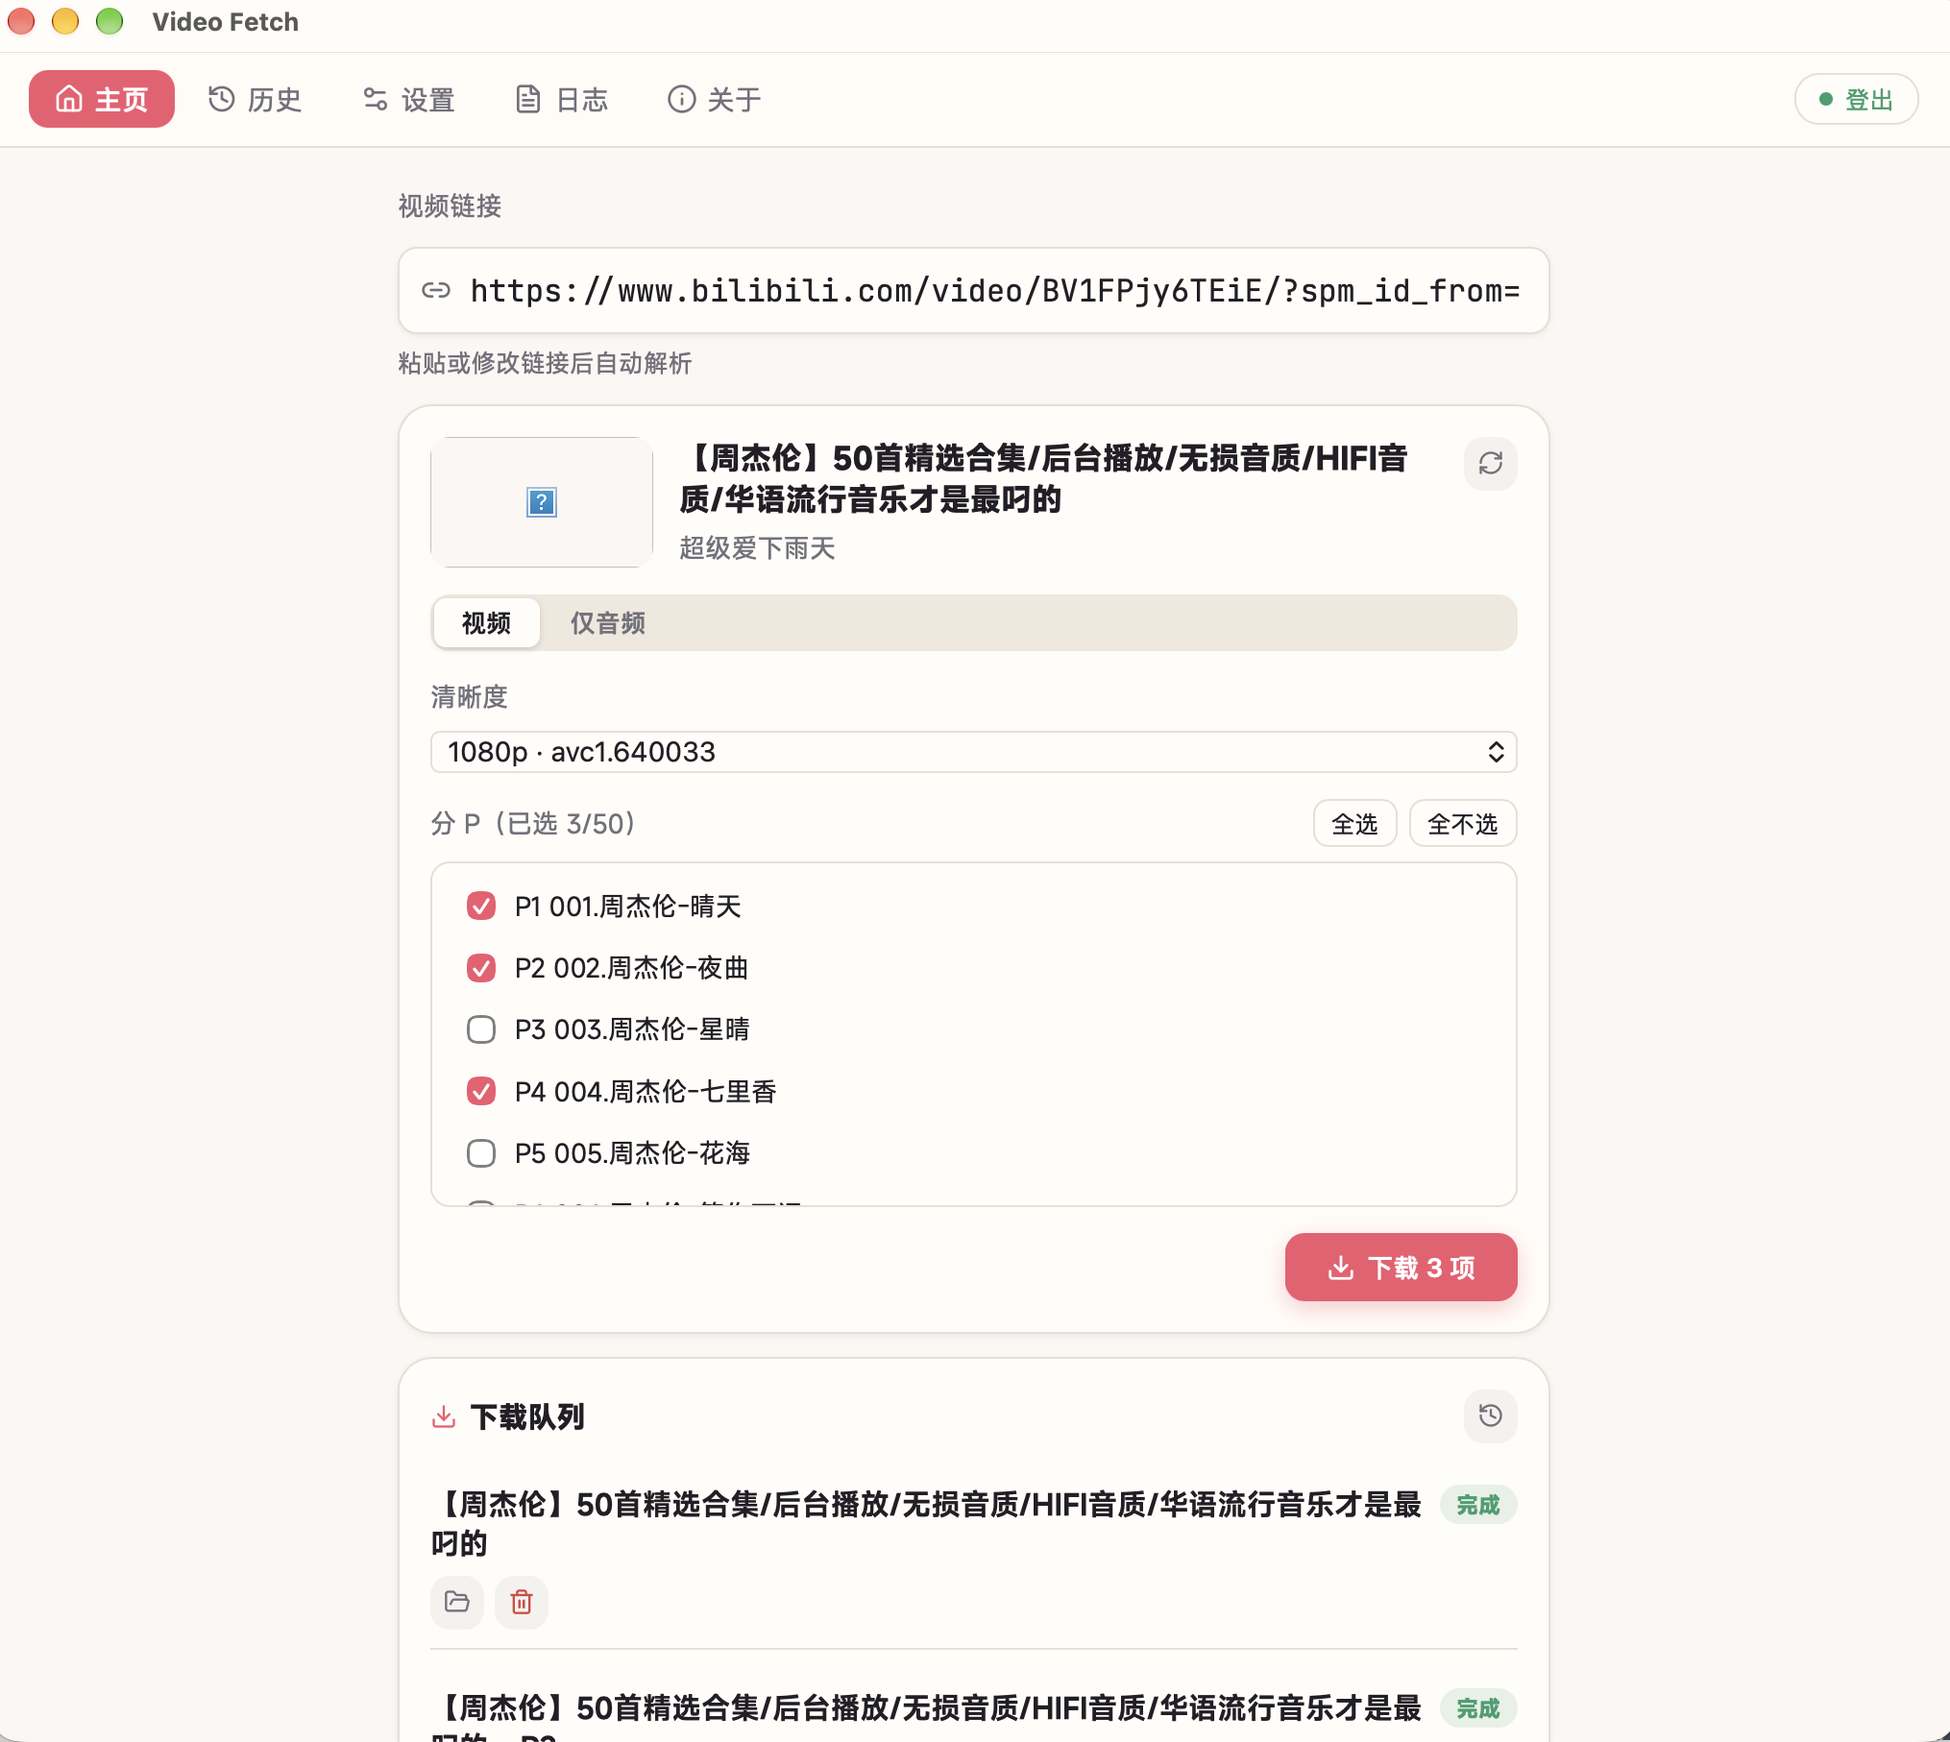
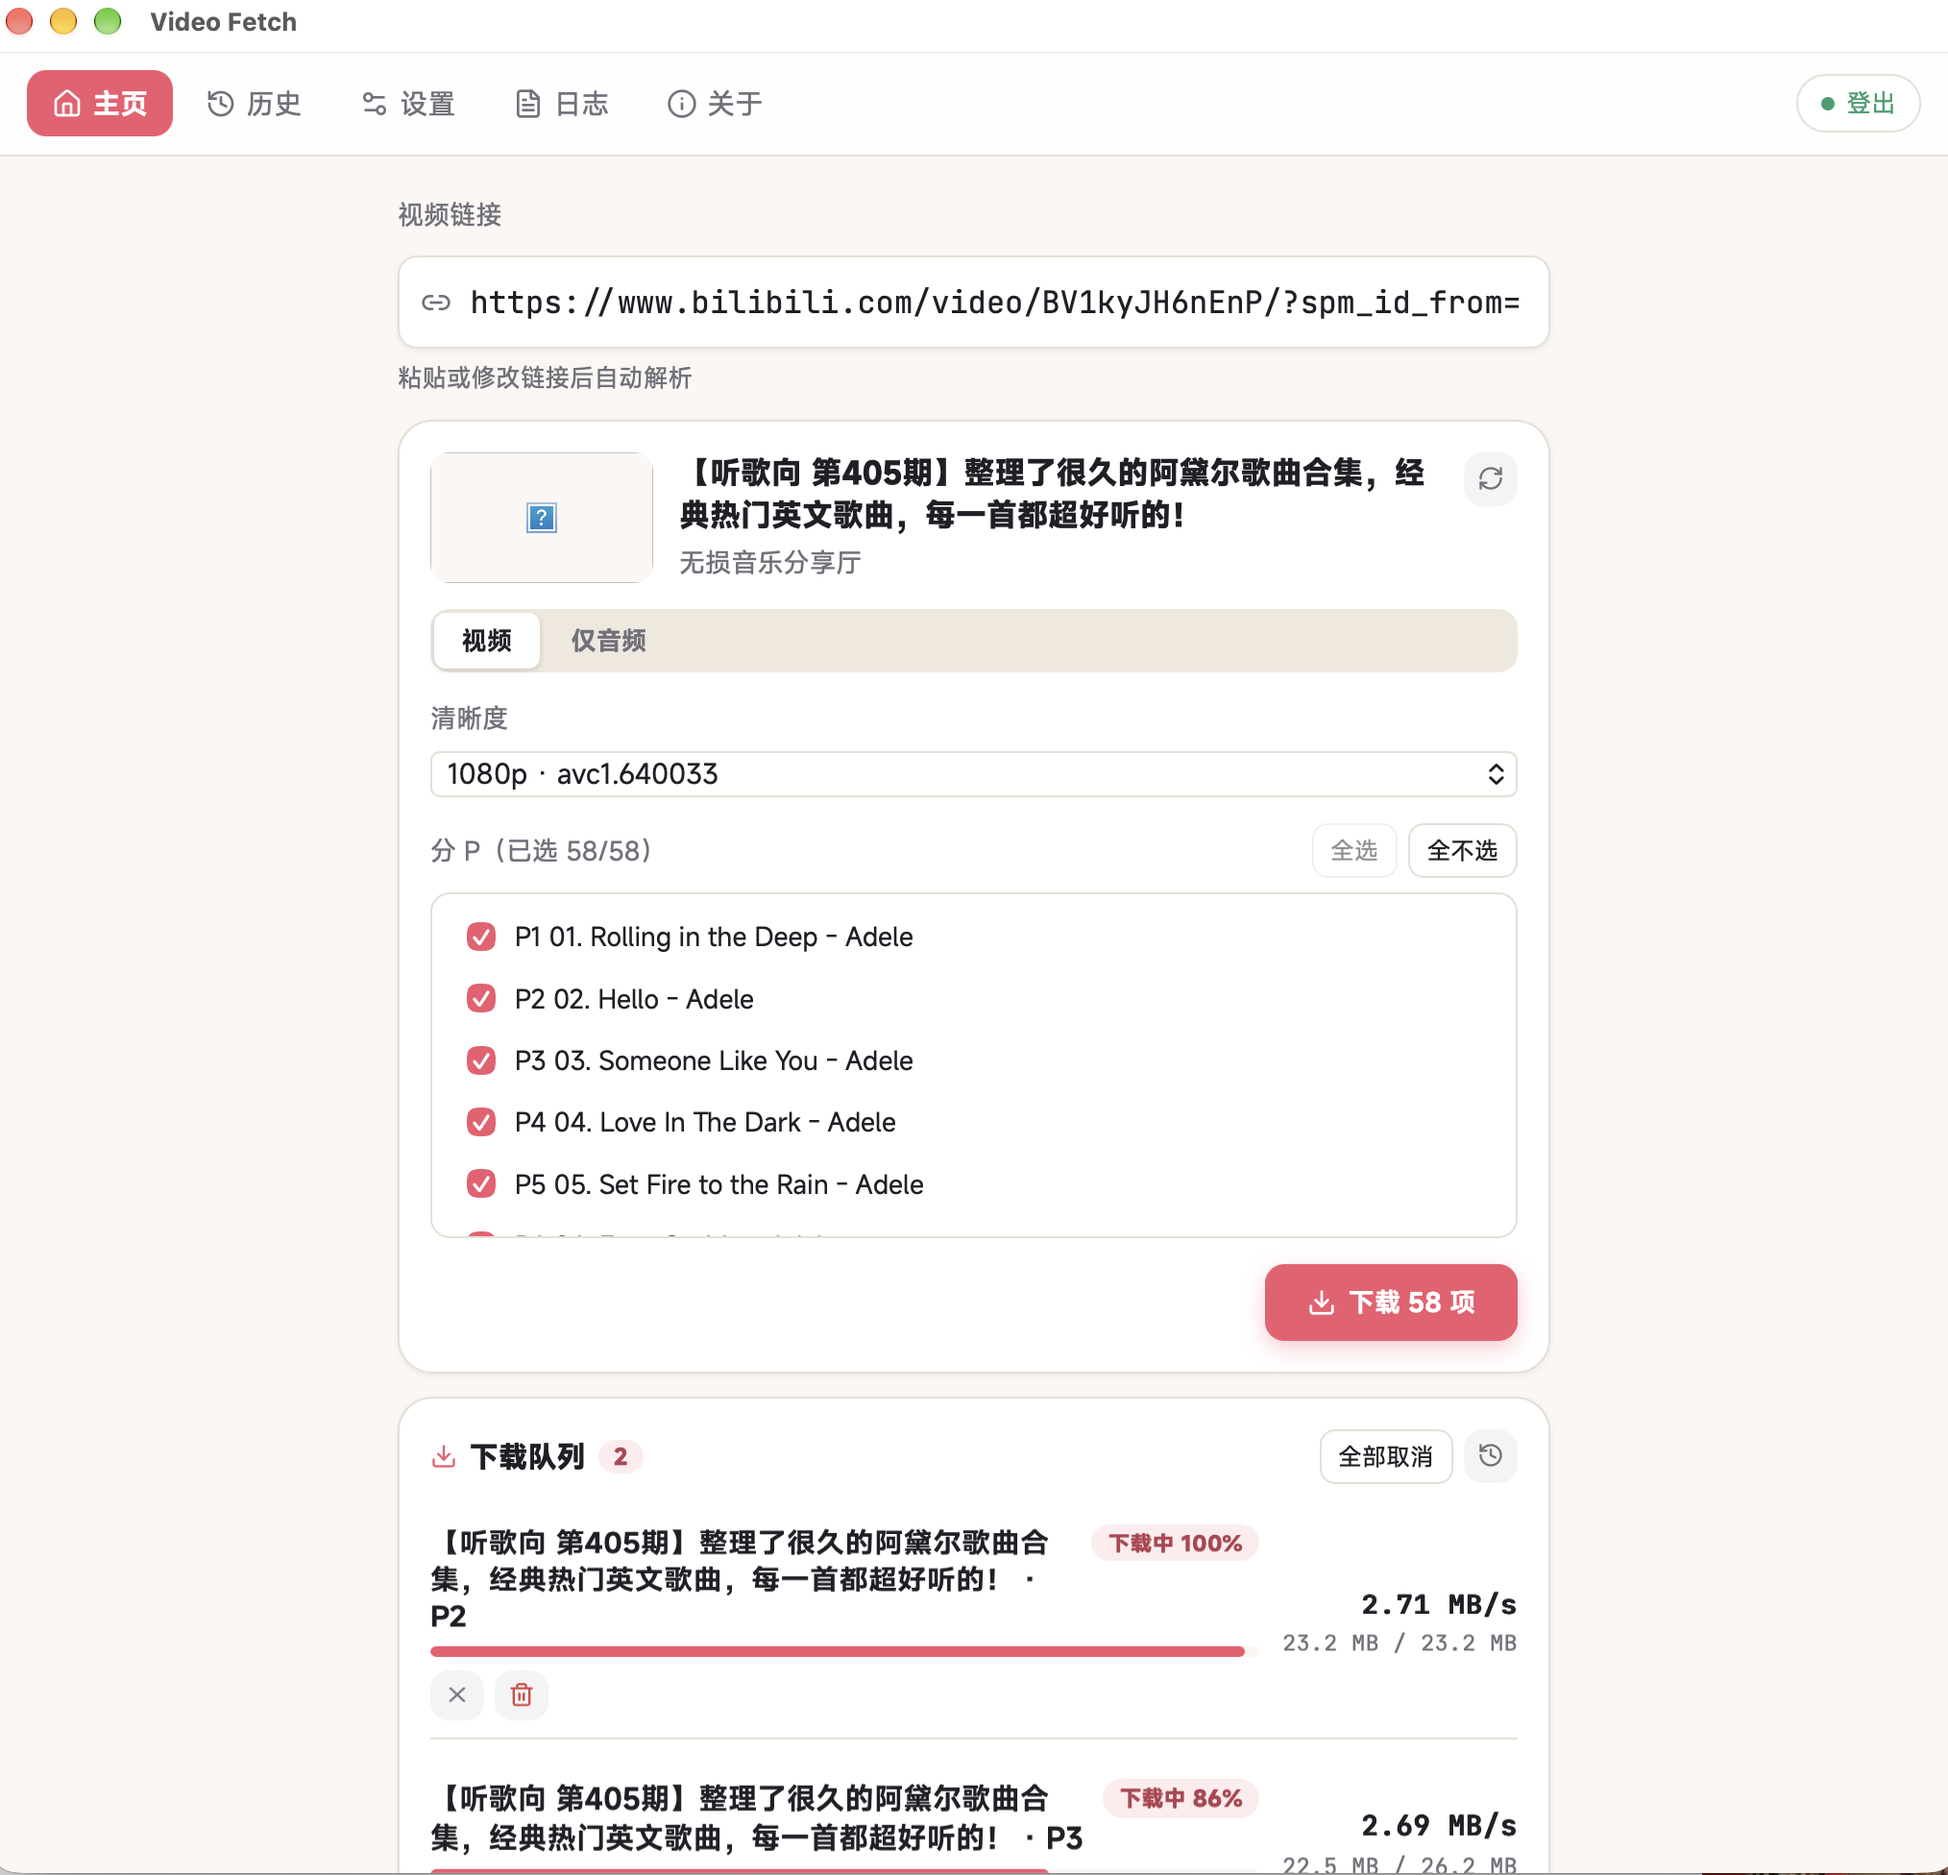
docs(readme): cover users and developers in one README
The front half stays user-facing and gains the one answer it was
missing: where downloads land (the OS download folder, with the app
data directory's downloads/ as fallback, changeable in settings). The
back half is a new developer section: stack, local environment, the
three commands to get running, a command table, project layout, the
download path through the code, and the release/sidecar flow.

Also refreshes the home screenshot to the current paper-ink UI.

diff --git a/README.md b/README.md
@@ -21,6 +21,7 @@
 
 - 粘贴 B 站视频链接，自动列出清晰度，选好就能下载
 - 多 P（分集）视频可以勾选要下载的集数，一次全部下载
+- 粘贴 UP 主空间链接，列出全部投稿：可以搜索、排序，跨页勾选后统一入队
 - 支持「视频 / 仅音频」切换：仅音频可选音质档位（64/132/192kbps AAC、Hi-Res 无损）与输出格式（m4a / mp3 / FLAC，FLAC 仅 Hi-Res 源可选）
 - 登录 B 站后，可以下载大会员专属清晰度
 - 下载排队执行，可以取消、重试，历史记录随时可查
@@ -62,11 +63,13 @@ chmod +x Video-Fetch-*-Linux-*.AppImage
 
 ## 使用
 
-1. 粘贴视频链接，等待解析
+1. 粘贴视频链接，等待解析；粘贴 UP 主空间链接则会列出该 UP 主的全部投稿
 2. 选择清晰度（多 P 视频还可以勾选集数）；切到「仅音频」可选音质和输出格式
 3. 点击下载
 
 想要大会员清晰度？在应用内登录 B 站，或手动导入 `cookies.txt` 文件。
+
+下载好的文件默认存到系统下载文件夹，可以在「设置 → 下载 → 保存目录」改到别处。万一系统下载文件夹取不到，会退回保存到应用数据文件夹下的 `downloads/`。
 
 ## 日志与隐私
 
@@ -82,6 +85,63 @@ chmod +x Video-Fetch-*-Linux-*.AppImage
 | macOS | `~/Library/Application Support/app.videofetch.desktop/` |
 | Windows | `%APPDATA%\app.videofetch.desktop\` |
 | Linux | `~/.local/share/app.videofetch.desktop/` |
+
+---
+
+## 开发
+
+### 技术栈
+
+- 桌面框架 Tauri 2：后端 Rust（edition 2024，最低 1.88），前端 React 19 + TypeScript + Vite
+- 下载内核 yt-dlp + ffmpeg，作为 sidecar 子进程随安装包分发
+- 本地存储 SQLite（下载历史与队列）与日志文件
+
+### 本地环境
+
+- Node.js 24
+- Rust 1.88 或更新
+- Python 3.14（版本钉在 `.python-version`，用于拉取 sidecar）
+
+### 快速开始
+
+```bash
+npm install
+python scripts/fetch_sidecars.py
+npm run tauri dev
+```
+
+第二步不能省：它把当前平台需要的 yt-dlp 与 ffmpeg 下载到 `src-tauri/binaries/`，开发态从这里加载。已经装了系统版本想直接复用，可以用 `YT_DLP_PATH` / `FFMPEG_PATH` 指向它们。
+
+### 常用命令
+
+| 命令 | 作用 |
+|------|------|
+| `npm run tauri dev` | 启动桌面应用（开发模式） |
+| `npm run build` | 类型检查并构建前端 |
+| `npm run test` | 前端单元测试 |
+| `cargo test --manifest-path src-tauri/Cargo.toml` | 后端测试 |
+| `cargo fmt --manifest-path src-tauri/Cargo.toml --all` | 格式化后端代码 |
+| `cargo clippy --manifest-path src-tauri/Cargo.toml --all-targets -- -D warnings` | 后端静态检查 |
+
+### 项目结构
+
+```
+src/                    前端：pages / components / lib
+src-tauri/src/          后端：commands、download、ytdlp、wbi、settings、activity_log 等
+src-tauri/binaries/     开发态 sidecar（不入库）
+scripts/                sidecar 拉取与校验、发版辅助脚本
+.github/workflows/      CI 与发版流程
+```
+
+### 一条下载的路径
+
+粘贴链接 → 后端解析（B 站 WBI 签名，失败时降级到 yt-dlp）→ 入队 → yt-dlp 子进程下载 → 落盘并写入 SQLite 历史。
+
+### 发版与 sidecar
+
+- 推 `v*.*.*` 标签触发 `.github/workflows/release.yml`，构建 macOS（Apple 芯片）、Windows x64 / arm64、Linux x86_64 / arm64 五个平台的安装包
+- yt-dlp 版本钉在 `scripts/requirements-sidecars.txt`，ffmpeg 版本钉在 `scripts/fetch_sidecars.py` 的 `FFMPEG_VERSION`；升级后跑 `python scripts/fetch_sidecars.py --update-pins` 更新 `scripts/sidecar_pins.json` 里的 SHA-256
+- `scripts/verify_evermeet.py` 校验 macOS 那一份 ffmpeg 包确实出自 evermeet：先核对 PGP 签名，再比对 SHA-256，两项都过才输出 OK
 
 ## 许可证
 
